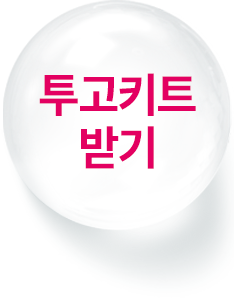
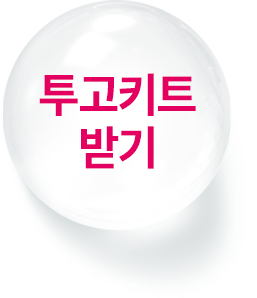
PC 수정 중

diff --git a/css/event2_style.css b/css/event2_style.css
@@ -35,7 +35,11 @@ ul {
 .main-header .header-wrap .header-sns-area{
     width: 100px;
     position: absolute;
-    padding: 7px 0px;
+    padding: 7px 5px;
+    font-size: 0;
+}
+.main-header .header-wrap .header-sns-area img:first-child{
+    margin-right: 9px;
 }
 .main-header .header-wrap .header-logo {
     position: absolute;
@@ -44,7 +48,7 @@ ul {
 }
 .main-header .header-wrap .header-navi {
     position: absolute;
-    right: 120px;
+    left: 224px;
     height: 48px;
 }
 .main-header .header-wrap .header-navi .navi1{
@@ -129,32 +133,27 @@ ul {
     /* height: 100%; */
     margin: 0 auto;
 }
-.main-section1 .section1-wrap .main-title{
-    /* position: absolute;
-    top: 204px; */
-}
-.main-section1 .section1-wrap .main-title .give_kit{
+.main-section1 .section1-wrap .give_kit{
     position: absolute;
-    width: 234px;
-    /* top: 500px;
-    left: 218px; */
-    margin-top: -17%;
-    z-index: 3;
-    margin-left: 25%;
-    background: url(../images/event2/main_section1_start_on.png)
+    top: 703px;
+    left: 700px;
+    width: 257px;
+    height: 298px;
+    background: url(../images/event2/main_section1_start_off.png) no-repeat;
+    border: 0;
+	-webkit-transform: translateX(-50%);
+    -ms-transform: translateX(-50%);
+    transform: translateX(-50%);
+	-webkit-transition: all .4s;
+	-ms-transition: all .4s;
+	transition: all .4s;
 }
-.main-section1 .section1-wrap .main-title .sub-title{
-    color: #e30061;
-    font-size: 103px;
-    letter-spacing: -5px;
+.main-section1 .section1-wrap .give_kit:hover,
+.main-section1 .section1-wrap .give_kit:focus {
+    top: 663px;
+    background: url(../images/event2/main_section1_start_on.png) no-repeat;
+    /* border: 0; */
 }
-.main-section1 .section1-wrap .main-title .sub-desc{
-    display: inline-block;
-    letter-spacing: -1.5px;
-    text-align: center;
-    font-size: 33px;
-}
-
 .main-section1 .section1-wrap .kit-image {
     position: absolute;
     right: -294px;

diff --git a/index2.html b/index2.html
@@ -42,21 +42,7 @@
             <div class="main-section1">
                 <div class="section1-wrap">
                     <img src="./images/event2/main_section1_bg.png" alt="" style="max-width:100%;display:block;">
-                    <div class="main-title">
-                        <!-- <div>
-                            <img src="./images/event2/main_section1_title1.png" alt="">
-                        </div>
-                        <span class="sub-title">투고키트 이벤트</span>
-                        <br />
-                        <span class="sub-desc">지난 이벤트에서 투고키트를 받지 못하신 분들에게<br />
-                                다시 한 번, 투고키트를 증정합니다</span> -->
-                        <div class="give_kit">
-                            <!-- <img src="./images/event2/main_section1_start_off.png" alt=""> -->
-                        </div>
-                    </div>
-                    <!-- <div class="kit-image">
-                        <img src="./images/event2/main_section1_kit.png" alt="투고 키트 이미지">
-                    </div> -->
+                    <button class="give_kit"></button>
                 </div>
             </div>
             <div class="main-section2">
